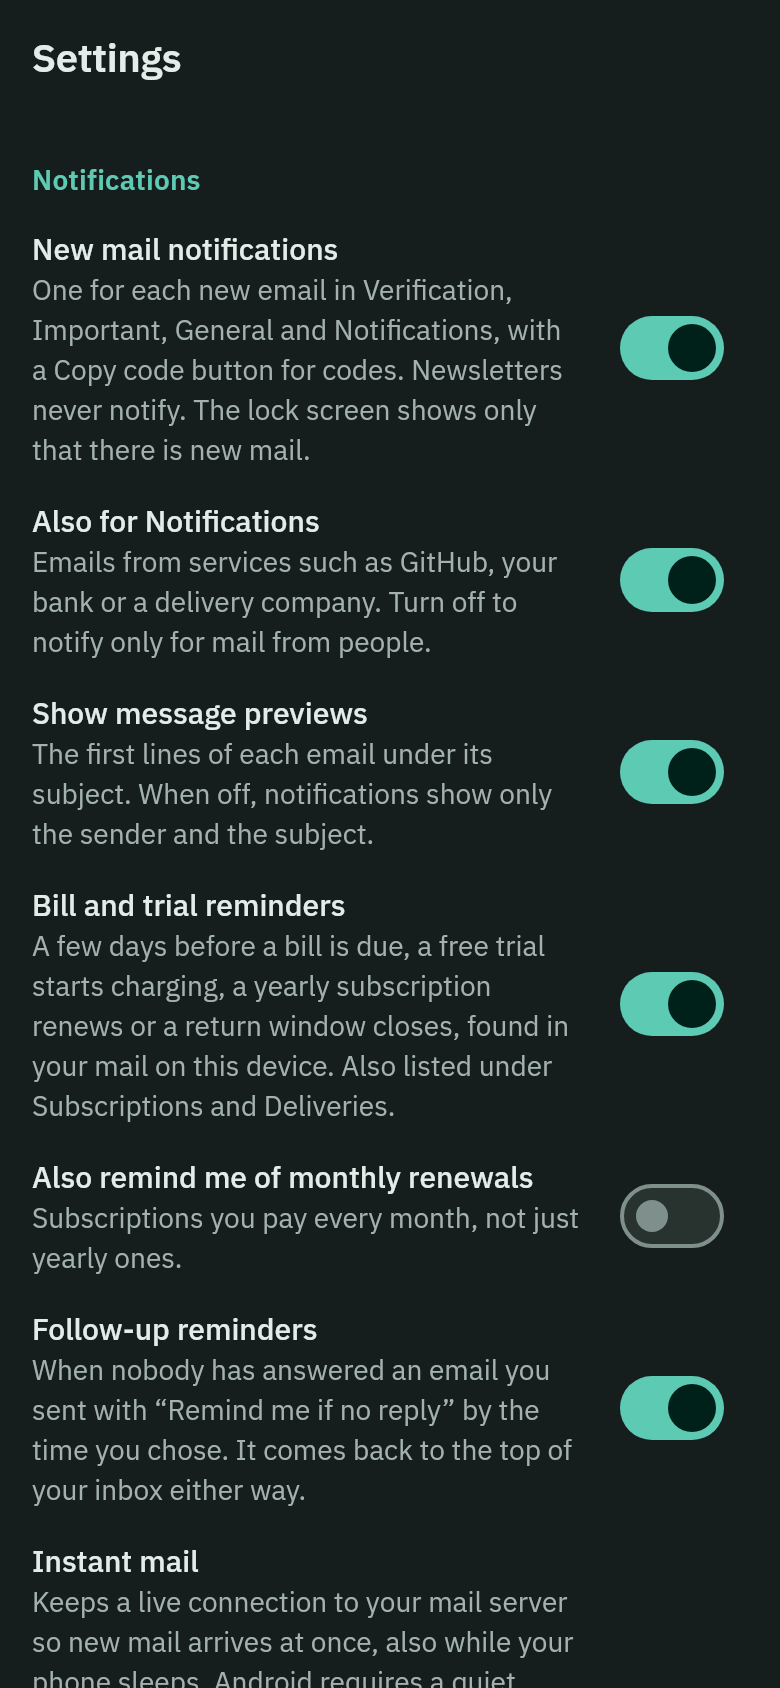
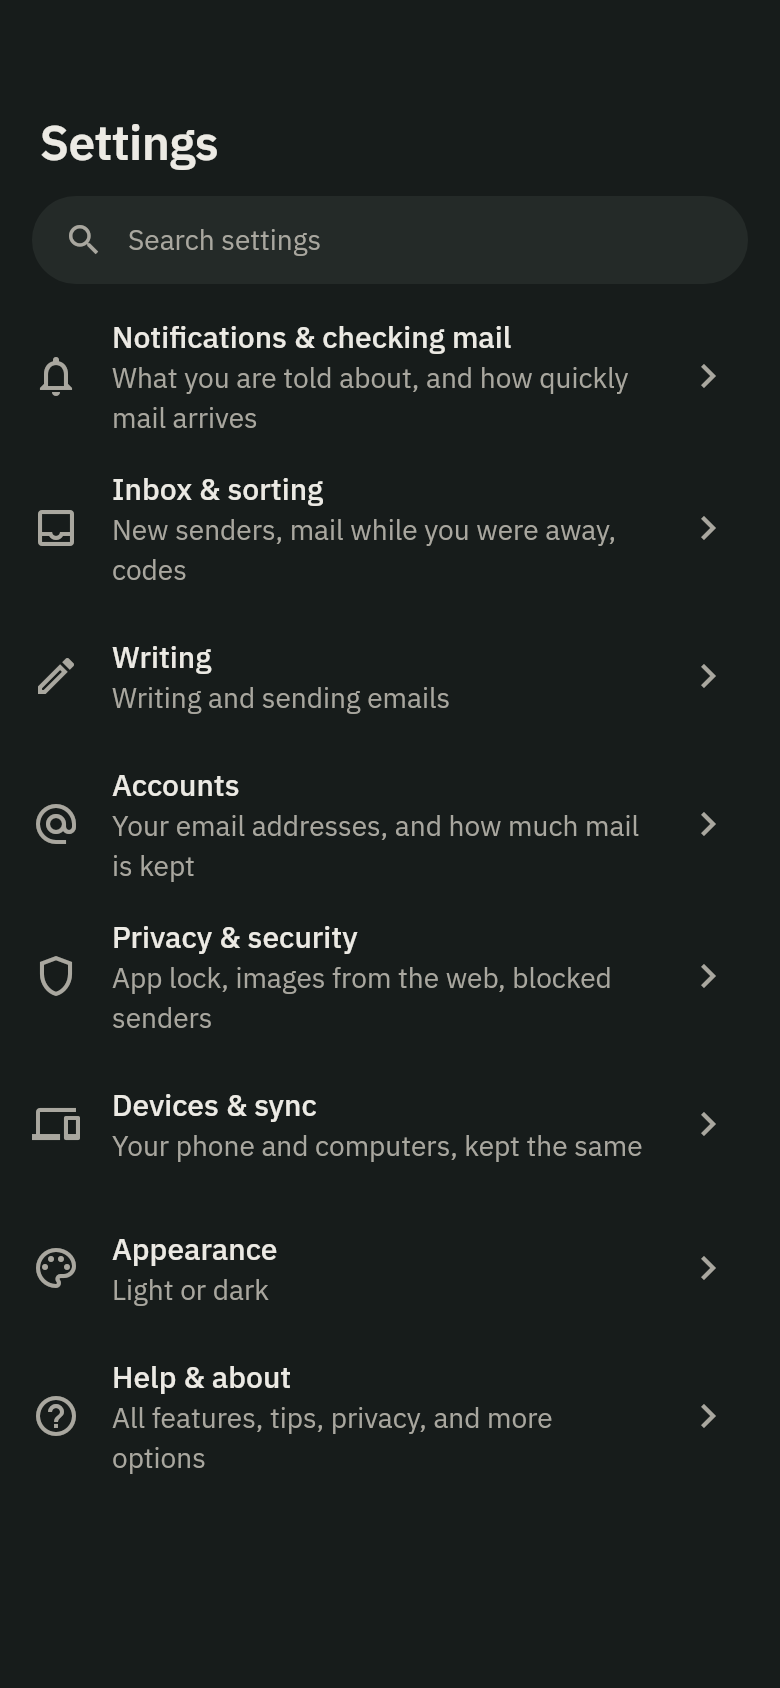
Screenshot scenes and README for finding features
Scenes for Settings by group (phone and desktop, light and dark), the
settings search, All features, What's new and a tip; the existing
Settings scenes open their group first. The README lists the feature
and its tour shows the new Settings.

Claude-Session: https://claude.ai/code/session_014i6HAP1iNv3q6sAUqpys6p

diff --git a/app/screenshots/screens_test.dart b/app/screenshots/screens_test.dart
@@ -26,12 +26,14 @@ import 'package:citusmail/src/ui/appointments_page.dart';
 import 'package:citusmail/src/ui/attachments_page.dart';
 import 'package:citusmail/src/ui/citusmail_theme.dart';
 import 'package:citusmail/src/ui/deliveries_page.dart';
+import 'package:citusmail/src/ui/discover_page.dart';
 import 'package:citusmail/src/ui/mail_shell.dart';
 import 'package:citusmail/src/ui/privacy_report_page.dart';
 import 'package:citusmail/src/ui/sender_cleanup_page.dart';
 import 'package:citusmail/src/ui/settings_page.dart';
 import 'package:citusmail/src/ui/subscriptions_page.dart';
 import 'package:citusmail/src/ui/trips_page.dart';
+import 'package:citusmail/src/ui/whats_new.dart';
 import 'package:flutter/foundation.dart';
 import 'package:flutter/material.dart';
 import 'package:flutter/rendering.dart';
@@ -288,6 +290,8 @@ void main() {
       ),
       size: const Size(390, 844),
     );
+    await tester.tap(find.text('Inbox & sorting'));
+    await settle(tester);
     await tester.scrollUntilVisible(
       find.text('Read receipts and bookings automatically'),
       300,
@@ -584,6 +588,89 @@ void main() {
     await shoot(tester, 'phone_settings');
   });
 
+  // Easier to find: Settings by what people want to do, with a search;
+  // all features in one place; what is new after an update; a tip.
+  testWidgets('discoverability', (tester) async {
+    _seedDemo(app.store);
+    final controller = MailController(app.services);
+    Widget settings() => SettingsPage(
+      services: app.services,
+      controller: controller,
+      isAndroid: true,
+    );
+    Future<void> searchFor(String words) async {
+      await tester.tap(find.byKey(const ValueKey('settings-search')));
+      await settle(tester);
+      await tester.enterText(find.byType(TextField), words);
+      await settle(tester);
+    }
+
+    // Phone: the groups, one group, the search.
+    await show(tester, settings(), size: const Size(390, 844));
+    await shoot(tester, 'phone_settings_groups');
+    await tester.tap(find.text('Notifications & checking mail'));
+    await shoot(tester, 'phone_settings_notifications');
+    await tester.pageBack();
+    await settle(tester);
+    await searchFor('dark mode');
+    await shoot(tester, 'phone_settings_search');
+    await tester.tap(find.widgetWithText(ListTile, 'Theme'));
+    await shoot(tester, 'phone_settings_found');
+
+    // Desktop: groups beside the settings; a search, and what it found.
+    await tester.pumpWidget(const SizedBox());
+    await show(tester, settings(), size: const Size(1440, 900));
+    await shoot(tester, 'desktop_settings');
+    await searchFor('pin');
+    await shoot(tester, 'desktop_settings_search');
+    await tester.tap(find.widgetWithText(ListTile, 'App lock').last);
+    await shoot(tester, 'desktop_settings_found');
+    await tester.pumpWidget(const SizedBox());
+    await show(tester, settings(), size: const Size(1440, 900), dark: true);
+    await shoot(tester, 'desktop_settings_dark');
+
+    // All features.
+    await show(
+      tester,
+      DiscoverPage(controller: controller, isAndroid: true),
+      size: const Size(390, 844),
+    );
+    await shoot(tester, 'phone_discover');
+    await show(
+      tester,
+      DiscoverPage(controller: controller, isAndroid: false),
+      size: const Size(1440, 900),
+    );
+    await shoot(tester, 'desktop_discover');
+
+    // What's new, after an update.
+    app.store.settings.delete(WhatsNew.seenKey);
+    await show(tester, shell(), size: const Size(1440, 900));
+    await shoot(tester, 'desktop_whats_new');
+    await show(tester, shell(), size: const Size(390, 844));
+    await shoot(tester, 'phone_whats_new');
+    await tester.tap(find.textContaining('more'));
+    await shoot(tester, 'phone_whats_new_all');
+    await tester.tap(find.text('Close'));
+    await settle(tester);
+    WhatsNew(app.store).markSeen();
+  });
+
+  // A tip, the first time it helps; the sync line's options.
+  testWidgets('discoverability tip', (tester) async {
+    app.seedFixture(
+      'people/plain-text.eml',
+      subject: 'Your flight booking to Lisbon',
+      uid: 95,
+      receivedAt: DateTime.now().toUtc(),
+    );
+    await show(tester, shell(), size: const Size(1440, 900));
+    await tester.tap(find.text('Your flight booking to Lisbon').first);
+    await shoot(tester, 'desktop_tip');
+    await tester.tap(find.byTooltip('Notifications and checking mail'));
+    await shoot(tester, 'desktop_checking_mail');
+  });
+
   // Add accounts from your phone: the computer's code, and the phone
   // choosing what to send once connected.
   testWidgets('add accounts from your phone', (tester) async {
@@ -773,6 +860,8 @@ void main() {
       ),
       size: const Size(390, 844),
     );
+    await tester.tap(find.text('Inbox & sorting'));
+    await settle(tester);
     await tester.scrollUntilVisible(find.text('Clean up old codes'), 300);
     await shoot(tester, 'phone_code_cleanup_settings');
     await tester.tap(find.text('Clean up old codes'));
@@ -820,6 +909,8 @@ void main() {
       ),
       size: const Size(390, 844),
     );
+    await tester.tap(find.text('Inbox & sorting'));
+    await settle(tester);
     await tester.scrollUntilVisible(
       find.text('Screen first-time senders'),
       300,
@@ -1029,8 +1120,9 @@ void main() {
         ),
         size: size,
       );
-      // The Inbox group, just under the notification settings.
-      await tester.drag(find.byType(ListView), const Offset(0, -700));
+      // The Inbox & sorting group.
+      await tester.tap(find.text('Inbox & sorting'));
+      await settle(tester);
       await shoot(tester, 'new_since_away_${name}_setting');
     });
   }

diff --git a/README.md b/README.md
@@ -46,6 +46,11 @@ Website: **https://citusmail.fluminaris.com** · Download:
 - **A calm sidebar**: each account folds away with its unread count in
   sight, and what was found in your mail and the Tools (Clean up, the
   Privacy report) sit apart, folded until you need them.
+- **Easy to find your way**: Settings grouped by what you want to do,
+  with a search that knows your words ("dark mode", "PIN", "spam"); each
+  feature's options where you use it; a short tip the first time a
+  feature could help; "What's new" after an update; and every feature in
+  one place under Tools, All features.
 - **Locked down**: encrypted storage, passwords in the system keychain,
   app lock with PIN or fingerprint, end-to-end encrypted sync between
   your devices.
@@ -69,7 +74,7 @@ Website: **https://citusmail.fluminaris.com** · Download:
 <td align="center" width="25%"><img src="docs/screenshots/readme_invitation.png" alt="A meeting invitation: the date in your time zone, with Accept, Maybe and Decline"><br><sub>Meeting invitations</sub></td>
 <td align="center" width="25%"><img src="docs/screenshots/readme_phone_reader.png" alt="A scam from a real, verified address, with a red warning that lists why"><br><sub>Phishing warnings that explain</sub></td>
 <td align="center" width="25%"><img src="docs/screenshots/readme_phone_compose.png" alt="Writing on a phone, with Send at the bottom"><br><sub>Writing, with Send in thumb reach</sub></td>
-<td align="center" width="25%"><img src="docs/screenshots/readme_phone_settings.png" alt="Settings on a phone: notifications, how far back mail is kept, app lock"><br><sub>Plain settings</sub></td>
+<td align="center" width="25%"><img src="docs/screenshots/readme_phone_settings.png" alt="Settings on a phone: a search, then groups such as Notifications, Inbox, Privacy"><br><sub>Settings by task, with search</sub></td>
 </tr>
 </table>
 
